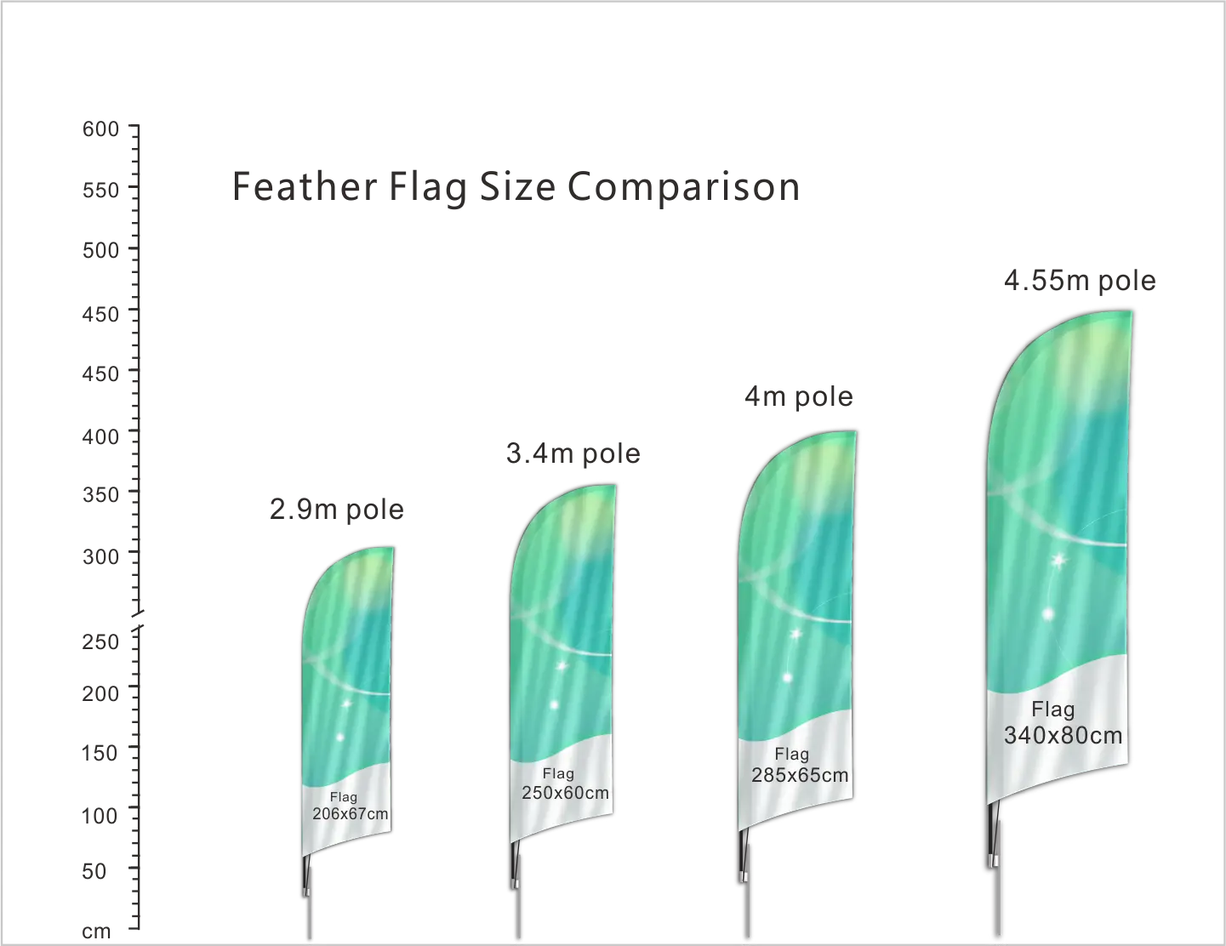
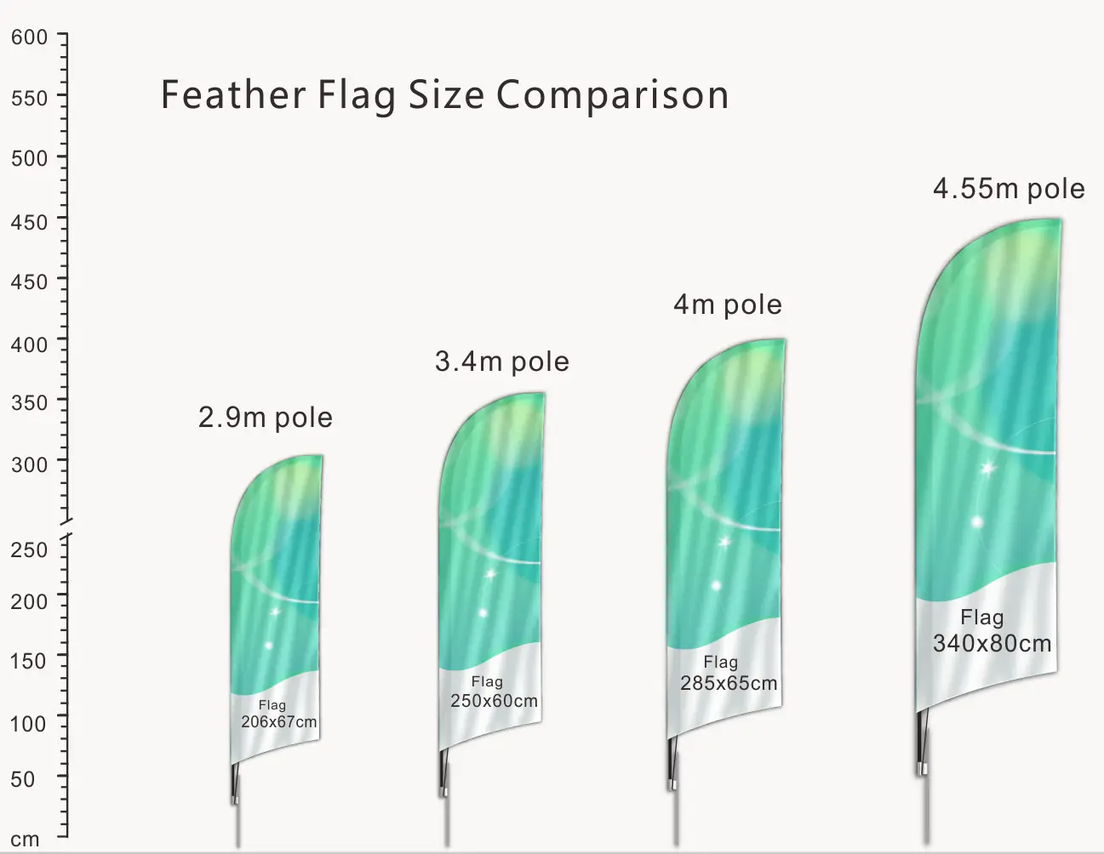
fix(feather-flag): 补充模块留白底色跟随模块背景
- 新增「图片区域底色」imageBg（默认 #faf7f5，可改白/其他色）
- contain 时图片元素透明、容器承担底色，留白不再固定白色
- 同步线上后台更新后的尺寸图
- 同步 README / AI-GUIDE §10.44 / 精简版；后台管理操作说明书仅本地更新（不入 git）

diff --git a/static/feather-flag.html b/static/feather-flag.html
@@ -205,7 +205,7 @@ Portable &amp; Easy Setup: Lightweight, fast to assemble, and simple to transpor
     <section class="section section-supp">
       <div class="container">
         <div class="f-supp f-supp-textLeft">
-          <div class="f-supp-img is-contain"><img src="/assets/media/wolflag-blade-feather-flag-size-chart-2.9m-to-4.55m-pole.webp" alt="Wolflag blade feather flag size comparison chart showing 2.9m pole (206x67cm flag), 3.4m pole (250x60cm flag), 4m pole (285x65cm flag), and 4.55m pole (340x80cm flag)" decoding="async"></div>
+          <div class="f-supp-img is-contain" style="background:#faf7f5"><img src="/assets/media/wolflag-blade-feather-flag-size-chart-2.9m-to-4.55m-pole.webp" alt="Wolflag blade feather flag size comparison chart showing 2.9m pole (206x67cm flag), 3.4m pole (250x60cm flag), 4m pole (285x65cm flag), and 4.55m pole (340x80cm flag)" decoding="async"></div>
           <div class="f-supp-body">
             <h2 class="f-supp-title">Custom Feather Flag Sizes and Pole Set Options</h2>
             <div class="f-supp-text"><p>Our standard blade feather flags are available in four popular size configurations, each paired with a precision-matched fiberglass and aluminum pole set:</p><p><strong>Small (S) – 206 × 67 cm Flag | 2.9m (9.5 ft) Pole</strong>: Ideal for indoor trade shows, lobbies, and compact storefronts.</p><p><strong>Medium (M) – 250 × 60 cm Flag | 3.4m (11 ft) Pole</strong>: Great for sidewalks, retail entrances, and pedestrian zones.</p><p><strong>Large (L) – 285 × 65 cm Flag | 4.0m (13 ft) Pole</strong>: Our most popular all-around size for outdoor events, car dealerships, and roadside promotions.</p><p><strong>Extra Large (XL) – 340 × 80 cm Flag | 4.55m (15 ft) Pole</strong>: Engineered for maximum long-range visibility along highways and large open venues.</p><p>Choosing the right size depends on your ceiling height, viewing distance, and outdoor wind conditions. Need a bespoke dimension or special shape? Contact our team for custom-tailored flag and pole solutions.</p></div>

diff --git a/src/assets/css/site.css b/src/assets/css/site.css
@@ -876,8 +876,11 @@ ul { list-style: none; }
 .f-supp-img { flex: 0 0 44%; align-self: stretch; min-height: 220px; }
 .f-supp-img img { width: 100%; height: 100%; object-fit: cover; border-radius: 10px; display: block; }
 /* 2026-10-17：补充模块「图片显示方式 = 完整显示（contain）」。
-   用于尺寸表/长图：图片在左右两栏布局里不再被 cover 裁掉，两侧或上下留白（白底与图片底色一致）。 */
-.f-supp-img.is-contain img { object-fit: contain; background: #fff; }
+   用于尺寸表/长图：图片在左右两栏布局里不再被 cover 裁掉，两侧或上下留白。
+   ⚠ 图片元素本身不要写死白底，否则留白会和模块底色不一致；底色由容器负责
+   （后台「图片区域底色」字段，默认 #faf7f5 = 模块底色；可改 #ffffff 或其他颜色）。 */
+.f-supp-img.is-contain { background: #faf7f5; }
+.f-supp-img.is-contain img { object-fit: contain; background: transparent; }
 .f-supp-body { flex: 1; }
 .f-supp-title { font-size: 26px; font-weight: 700; color: #191a19; margin-bottom: 14px; }
 .f-supp-text { color: #444c58; font-size: 16px; line-height: 1.7; }

diff --git a/static/assets/css/site.css b/static/assets/css/site.css
@@ -876,8 +876,11 @@ ul { list-style: none; }
 .f-supp-img { flex: 0 0 44%; align-self: stretch; min-height: 220px; }
 .f-supp-img img { width: 100%; height: 100%; object-fit: cover; border-radius: 10px; display: block; }
 /* 2026-10-17：补充模块「图片显示方式 = 完整显示（contain）」。
-   用于尺寸表/长图：图片在左右两栏布局里不再被 cover 裁掉，两侧或上下留白（白底与图片底色一致）。 */
-.f-supp-img.is-contain img { object-fit: contain; background: #fff; }
+   用于尺寸表/长图：图片在左右两栏布局里不再被 cover 裁掉，两侧或上下留白。
+   ⚠ 图片元素本身不要写死白底，否则留白会和模块底色不一致；底色由容器负责
+   （后台「图片区域底色」字段，默认 #faf7f5 = 模块底色；可改 #ffffff 或其他颜色）。 */
+.f-supp-img.is-contain { background: #faf7f5; }
+.f-supp-img.is-contain img { object-fit: contain; background: transparent; }
 .f-supp-body { flex: 1; }
 .f-supp-title { font-size: 26px; font-weight: 700; color: #191a19; margin-bottom: 14px; }
 .f-supp-text { color: #444c58; font-size: 16px; line-height: 1.7; }

diff --git a/AI-GUIDE.md b/AI-GUIDE.md
@@ -4264,12 +4264,14 @@ Graduations `#EDF0FD` · Expos `#EAF7F0` · Fundraisers `#FDEEE6` · Seasonal `#
 **根因**：该补充模块 `direction:"textLeft"`（文字左、图片右）。`.f-supp` 是 flex row；`.f-supp-img{flex:0 0 44%;align-self:stretch;min-height:220px}` 被文字高度拉高；`img{width:100%;height:100%;object-fit:cover}` → 图片按容器比例裁剪，尺寸图比容器更宽，右边被裁。
 
 **修复**：
-- 5 个页面的 supplement 字段都加 `imageFit` 下拉：`cover`（默认，填满、可能裁剪）/ `contain`（完整显示、可能留白）。
-- build：`<div class="f-supp-img${s.imageFit === 'contain' ? ' is-contain' : ''}">`。
-- CSS：`.f-supp-img.is-contain img{object-fit:contain;background:#fff}`（白底与尺寸图底色一致；左右/上下留白）。
-- 数据：把该条设为 `imageFit:"contain"`；旧数据缺省 = cover，其他图片不变。
+- 5 个页面的 supplement 字段都加 `imageFit` 下拉：`cover`（默认，填满、可能裁剪）/ `contain`（完整显示、可能留白）；同时加 `imageBg`（图片区域底色，默认 `#faf7f5`）。
+- build：`<div class="f-supp-img is-contain" style="background:imageBg">`；图片元素 `object-fit:contain;background:transparent`。
+- CSS：`.f-supp-img.is-contain{background:#faf7f5}`（行内 `imageBg` 覆盖）+ `.f-supp-img.is-contain img{object-fit:contain;background:transparent}`。
+- 数据：把该条设为 `imageFit:"contain"`、`imageBg:"#faf7f5"`；旧数据缺省 = cover，其他图片不变。
 
-**验证**：local `getComputedStyle(img).objectFit === 'contain'`；natural 1441×1112，容器约 494×501 → contain 后完整显示，右侧 4.55m 列可见；其他补充图片仍 cover；0 横向溢出；后台 5 个 imageFit 字段，PyYAML 通过。
+**同日追加（用户反馈“留白是白色”）**：contain 后图片元素自身白底导致上下留白与模块底色不一致。改为**容器承担底色**：`imageBg` 默认 `#faf7f5`（= 模块底色），可改 `#ffffff` 或其他颜色；图片元素背景透明，留白自动填充所选颜色。实测容器 `rgb(250,247,245)`，与模块底色一致；后台 5 个 imageBg 字段。⚠ 如果图片**自身**自带白底（不是透明），图片内部白底仍会保留，只改“图片以外的留白”；需要连图片白底也统一，得另做抠图/透明化。
+
+**验证**：local `getComputedStyle(img).objectFit === 'contain'`；natural 1441×1112，容器约 494×501 → contain 后完整显示，右侧 4.55m 列可见；留白底色 `rgb(250,247,245)`；其他补充图片仍 cover；0 横向溢出；后台 5 个 imageFit + 5 个 imageBg 字段，PyYAML 通过。
 
 **说明**：这是「左右两栏」布局的裁剪；如果以后想让它更大，可把 `direction` 改 `textTop`/`textBottom`（图通栏），但本次未改用户选择的排版。
 
@@ -4282,7 +4284,7 @@ Graduations `#EDF0FD` · Expos `#EAF7F0` · Fundraisers `#FDEEE6` · Seasonal `#
 
 **同日再次升级（2026-10-17）：补充模块从 top/bottom 升级为「多插槽 + 注册表 + 构建时生成后台下拉」（§10.43.1、坑 #40 更新）**——用户要求「所有可以插入的地方都列出来，能加在 Choose Your Flag Size 上面」。新增 `scripts/page-slots.mjs` 的 `PAGE_SLOTS`（**19 个槽：国旗 5 / 羽毛旗 4 / 横幅 3 / 展架 3 / 首页 4**）；`supplement[].slot` + `defaultSlot` 迁移（国旗 after-hero、羽毛旗 after-applications）；`slotGroup()` 输出 `.supp-slot-group`（CSS 变量 `--supp-top/--supp-bottom`，多条之间 56、最后一条按变量 0/56）；后台源 config 只留 `# @@SLOT_FIELD:key@@`，构建时生成 `static/admin/config.yml` 的 `slot` select（以后新增槽 = 注册表 + `slotGroup()`，后台自动多选项）。**事实边界**：不是运行时 DOM 自动扫描，新增段落仍需登记一次。验证：国旗 after-products/after-options/after-benefits 上下 56；羽毛旗 after-products/after-benefits；首页 after-announce 46+10=56；横幅 after-hero 26+30=56；现有内容位置不变；admin 5 个 slot 字段（5/4/3/3/4 选项）PyYAML 通过；临时测试已删。
 
-**同日补充（2026-10-17）：补充模块新增「图片显示方式」cover/contain（§10.44、坑 #41）**——用户上传 1441×1112 的 blade feather flag 尺寸表，页面「没有完全显示」，右侧 4.55m 列被裁；根因是 `textLeft` 布局的 `.f-supp-img` 被文字高度拉高 + `object-fit:cover`；新增 `imageFit`（5 页 supplement 字段，cover 默认 / contain），build 加 `.is-contain`，CSS `object-fit:contain;background:#fff`；该条设为 contain；其他图片不变；验证完整显示、0 溢出、admin 5 个字段。
+**同日补充（2026-10-17）：补充模块新增「图片显示方式」cover/contain（§10.44、坑 #41）**——用户上传 1441×1112 的 blade feather flag 尺寸表，页面「没有完全显示」，右侧 4.55m 列被裁；根因是 `textLeft` 布局的 `.f-supp-img` 被文字高度拉高 + `object-fit:cover`；新增 `imageFit`（5 页 supplement 字段，cover 默认 / contain）+ `imageBg`（图片区域底色，默认 `#faf7f5`，可改白/其他色），build 加 `.is-contain`，CSS `object-fit:contain;background:transparent` + 容器 `imageBg`；该条设为 contain + `#faf7f5`；其他图片不变；验证完整显示、留白与模块底色一致、0 溢出、admin 5 个 imageFit + 5 个 imageBg 字段。
 
 **前次（2026-10-16）**：**羽毛旗页两轮迭代**：① 补充模块「间距减半 + 条目左对齐 + 文字不贴边」；② 新增「应用场景」卡片网格模块（照同行参考站 vividads.com.au 的 htm 源码实测值复刻）+ 图标与配色定稿**（新增 §10.41）。用户先给一张**标注截图**（画了 4 处红框红箭头，文件名叫 `调整.jpg` 却放在 `Car flag\` 文件夹里 —— **判据：以截图里的内容为准，别被文件名带偏**，内容是羽毛旗页），后给一份**单文件另存的参考页**（`沙滩旗应用场景.htm`，2.3MB）要求「把这个新模块完全复制下来放到 feather flags 页面」「排版三个框一排，三排，总计9个框」「新增一个款是 real estate」「内容你帮我写一下」「**那些链接都不要，我只需要在网站上展示我们的旗帜可以用在那些地方**」。🔴 **动手前 `git fetch` 发现本地落后线上 5 个提交**，**线上那片 "One Hardware System" 补充模块本地压根没有**（用户自己在后台加的）→ 按 §0.1 开场必问、**经用户批准后**才同步；本地那张安装图有未提交改动，**实测 md5 与线上完全相同**后才丢弃本地改动合并，**零丢失**；第二轮做完时线上**又多了 2 个提交**（空 `image` 字段 + 重传安装图），用 `stash push → merge --ff-only → stash pop` 干净合并。**第一轮（三处修正）**：① 两个空档 **112px → 56px** —— 根因是每个补充模块各自包在 `.section`（上下各 56px 内边距）里、相邻即 56+56；修法是 `build.mjs` 给 section 加 `section-supp` 类 + CSS `.section-supp{padding-top:0;padding-bottom:56px}`（⚠ **不要设成"上下各 28px"，那样上方空档=84px 只减 1/4**）；② 5 条 ● 开头不对齐 —— 根因是纯文字补充模块 `text-align:center` 而用户在正文里**手打了 5 个「● 」**，修法 `.f-supp-txt .f-supp-text{text-align:left}`（**标题保持居中不变**，实测 5 个横坐标全 = 159）；出过「整块左对齐 / 标题居中+条目左对齐 / 正文限宽居中」三版截图给用户挑，**用户选中间那版**；③ 标题正文贴盒子边 —— 根因是 **2026-10-15 为放大安装图把上下排布的内边距归零**（图通栏了、文字也跟着贴到 0px），修法**只给 `.f-supp-body` 补回 40px（手机 24px）**，`.f-supp-img` 与 `.f-supp-body` 是兄弟节点 → **图片宽度 1202/342 一点没变、用户"把图放大"的成果保住**（左右两栏排布不动）。**第二轮（新模块）**：`applications` = `{show,title,subtitle,items[{image,icon,title,text,bg}]}` 进 `feather-flags.json`，`build.mjs` 新增 `applicationsSection()` **只接 `featherBody()`**（插在产品区与补充模块之间），`config.yml` 顶层加字段（**files 型缩进 10**，坑 #16），CSS 新增 `.wl-app-*` 并让 `.section-apps` 与 `.section-supp` **共用同一套留白** → 全页「产品卡→应用场景→补充模块→补充模块」**一律 56px**；参考站规格照 htm 源码实测复刻（卡片圆角 14px / 内边距 16×14 / min-height 168px / 间距 14px、图标块 40×40 白底圆角 10px、标题 17px/800、说明 13.5px、悬停 `0 6px 18px rgba(0,0,0,.10)` + `translateY(-1px)`），**四处有意不同（用户拍板）**：一排 **3 个**（参考站 4 个）/ **卡片里的链接全部去掉**（参考站有标题链接+标签链接+Explore all events 三处，实测模块内 `<a>` 数 **0**）/ **9 张卡**（新增 Real Estate 放第一格）/ 文字色改用本站 `#191a19`+`#444c58`。**图标选型**：做**候选对比图**（用真实卡片底色+真实 40×40 图标位渲染）给用户挑，用户点名 4 格 → 我出推荐表+理由、**用户回「就按你推荐的」**：Weddings 💍→**👰**、Expos 🏛→**🎪**、Fundraisers 🏃→**💰**、Awareness **🎗 保持**（⚠ 用户原本想要 🏆 奖杯，我**如实指出奖杯在大众印象里是"比赛得奖"不是"公益宣传"**，用户采纳保留丝带）；Real Estate 起初用用户给的 `logo.png`（米白圆底+红灰楼房，把接近 `(250,247,245)` 的底改成纯白压平存 `media/real-estate-icon.png`），**随后用户改口「你这个 🏠 比我的好，还是用你的」** → 改 emoji 🏠、**该图已删**（未跟踪、零引用、删前 grep 确认）。**配色**：用户给 9 个新色号（`#EBF3FC`/`#FCEEF2`/`#FEF4DC`/`#F4EEFC`/`#EDF0FD`/`#EAF7F0`/`#FDEEE6`/`#E8F6FA`/`#F9EFF6`），⚠ **Fundraisers 那格其实没变**（用户给的 `#FDEEE6` 与原来的 `#fdeee6` 是同一个颜色，只是大小写不同 → **实际变的是 8 个**，已如实告知）；存库统一小写。**验证**：**164 个产物文件逐字节比对只动 4 个、无多出少掉**；羽毛旗页 HTML 只多新模块、国旗页只改 **1 行**；全站 15 页 × 5~13 种宽度 **0 溢出 / 0 报错 / 0 真 404**（内部链接 15 条全 200）；**9 张卡的实际渲染色 vs 用户指定色号 9/9 完全一致**（读 `getComputedStyle` 转 hex，电脑+手机两端）；文字对比度 **7.6~7.9:1**（标准 4.5:1）；字号放大 1.5×/2× 模块内部 0 溢出；**用本地 decap-server 真后台实点展开一张卡**，5 个字段全部可编辑、0 报错（**不点 Publish**）。⚠ **本次两处测试自身的假象**：屏蔽 Google Fonts + 快速连续 goto → 报告里出现 `fonts.googleapis.com` 与 `localhost/...webp` 的 `ERR_FAILED`，**逐个 curl 复核全是 200，不是真问题**；另有两次探针选择器写错（`.wl-app` 实为 `.section-apps`、Decap 列表标题取错元素）造成的假警报。**明确没做**：卡片几何值/一排几个没做成后台字段、模块只接羽毛旗页、`sitemap.xml` 的 lastmod「每次构建都写成当天」是**改动前就有的老做法**（已报备、未动）。
 

diff --git a/AI-GUIDE-精简版.md b/AI-GUIDE-精简版.md
@@ -264,7 +264,7 @@ wolflag-site/
 
 - **补充模块 `supplement[]`**：每页底部可加多个图文区，每项 `{show, position, title, text, image}`；`show:false` = 隐藏但内容保留。
 - **补充模块的 `slot`（显示位置，2026-10-17 多插槽）**：每页插槽清单在 `scripts/page-slots.mjs` 的 `PAGE_SLOTS`；每条 `s.slot` 是插槽 id；**缺省 / 旧数据落到本页 `defaultSlot`（= 改动前位置）**。后台下拉由构建时从注册表自动生成（`admin/config.yml` 里只保留 `# @@SLOT_FIELD:key@@` 标记，构建写入 `static/admin/config.yml`）。国旗页 5 个槽：after-hero / after-products / after-options / after-size / after-benefits；羽毛旗 4 个；横幅/展架 3 个；首页 4 个。⚠ 缺省槽必须是旧位置（坑 #40）；`slotGroup()` 按注册表的 top/bottom 输出 `.supp-slot-group`。`[§10.43]`
-- **补充模块的 `imageFit`（图片显示方式，2026-10-17 新增）**：`cover`（默认，填满、可能裁剪）/ `contain`（完整显示、可能留白）。构建给 `.f-supp-img` 加 `.is-contain`，CSS `object-fit:contain;background:#fff`。尺寸表/长图用 contain；旧数据缺省 = cover，现有图片不变。`[§10.44]`
+- **补充模块的 `imageFit` / `imageBg`（图片显示方式 / 图片区域底色，2026-10-17 新增）**：`imageFit` = `cover`（默认，填满、可能裁剪）/ `contain`（完整显示、可能留白）；`imageBg` = 留白底色（默认 `#faf7f5` = 模块底色，可改 `#ffffff` 或其他颜色）。构建给 `.f-supp-img` 加 `.is-contain` + 行内 `background:imageBg`，CSS `object-fit:contain;background:transparent`。尺寸表/长图用 contain；旧数据缺省 = cover，现有图片不变。`[§10.44]`
 - 🔴 **补充模块的「文字」`text` 走 `faqAnswer()`，支持空行分段 / 单回车换行**（**2026-10-15 修**）：
   改前用的是 `bold()`，而 `.f-supp-text` **没有** `white-space:pre-line` → 后台打的空行被浏览器折成空格、
   整块糊成一整段（**而本文件 §3.1 一直写着它支持换行 → 属文档写了、代码没实现**，见坑 #37）。
@@ -369,7 +369,7 @@ wolflag-site/
 | **尺寸模块的留白** `[§10.42]` | 上方「生产选项」`.wl-opt` 自带 56px；本模块 `padding:0 0 26px`（手机 44px）+ 表格卡片自身 30px（手机 12px）= **到优势条灰底 56px**。⚠ 不要再加 `padding-top`，否则 112px |
 | **国旗页三处间距减半** `[§10.42]` | 国旗顶部插槽 `after-hero` 的 `--supp-top:2px`（page-hero 底 26 + 2 = **28px**）；`.section.nf-products{padding-top:28px;padding-bottom:0}`（灰块 → 产品卡 **28px**；产品卡 → 生产选项 **112→56px**，手机 80→40px）。⚠ 用户标注「间隙减半」共三处，别改回 56 / 112 |
 | **补充模块「多插槽」** `[§10.43]` | `.supp-slot-group{padding-top:var(--supp-top,0)}`；组内 `.section-supp` 上 0 / 下 56，最后一条 `padding-bottom:var(--supp-bottom,0)`；每个槽的 top/bottom 在 `PAGE_SLOTS` 里；首页 `.main-products.has-supp-top{padding-top:56px}`。⚠ 缺 `s.slot` 落 `defaultSlot`（旧位置，坑 #40） |
-| **补充模块图片显示方式** `[§10.44]` | 默认 `.f-supp-img img{object-fit:cover}`（填满、可能裁剪）；`imageFit=contain` → `.f-supp-img.is-contain img{object-fit:contain;background:#fff}`（完整显示、可能留白）。尺寸表/长图用 contain，普通照片用 cover |
+| **补充模块图片显示方式 / 底色** `[§10.44]` | 默认 `.f-supp-img img{object-fit:cover}`（填满、可能裁剪）；`imageFit=contain` → `.f-supp-img.is-contain img{object-fit:contain;background:transparent}` + 容器行内 `background:imageBg`（默认 `#faf7f5`，可改白色/其他色）。尺寸表/长图用 contain，普通照片用 cover |
 
 📌 **「颜色减淡一半」的算法**：`round(fg*a + bg*(1-a))`，`a=0.5`。**必须先实测它背后的真实底色**再算。
 
@@ -486,7 +486,7 @@ wolflag-site/
 | — | 🖼 **"图片没写 alt"要先分类，**绝不能全填** | **装饰性小图标**（公告条/服务卡/页脚社交/优势条）**按无障碍规范就该保持 `alt=""`**，填了对读屏用户反而是噪音 —— 而且**必须主动告诉用户"这是留空、不是没干完"**。只有**真实内容图**（产品图/横幅/工厂图/场景图）才逐张看图后起草，列表给用户批准再填；**只填当前为空的，已有的一个字不动**。📌 扫描时键名要同时覆盖 `image` 与 `bannerImage` [§10.37] |
 | — | ⭐ **"证明只改了一个字段"的校验：改前与改后**两边都要**归一化，不能只归一化一边** | 连踩两版：① 只 `strip(改后)` 去比没处理的改前 → 连带抹掉文件里**本来就有**的 alt → 假警；② 回滚若用"删键"而非"恢复原值"，遇到 `"imageAlt": ""`（空串、键存在）又假警。✅ 正确：`strip_alts(改前) == strip_alts(改后)` [§10.37] |
 | — | 📋 **给非程序员做审阅材料：让他"能在上面写字 + 一键复制"** | 实况：`scripts/_alt_report.py` 生成的「改前 vs 改后」对比 HTML（图片预览 + 可编辑意见栏 + 一键复制意见），比"表格截图"有用得多 [§10.37] |
-| 41 | 🖼 **补充模块「文字左/右」布局的图片默认 `object-fit:cover`，会被裁剪** | 实况：用户上传 1441×1112 的 blade feather flag 尺寸表，图片区被文字高度拉高，cover 把右边 4.55m 那列裁掉；新增 `imageFit:contain`（后台「图片显示方式」）解决。判据：**尺寸表/长图/带文字图 → contain；普通照片想铺满 → cover**；旧数据缺省 = cover，现有图片不变 `[§10.44]` |
+| 41 | 🖼 **补充模块「文字左/右」布局的图片默认 `object-fit:cover`，会被裁剪；contain 后留白又会是白色** | 实况：用户上传 1441×1112 的 blade feather flag 尺寸表，cover 把右边 4.55m 那列裁掉；改成 contain 后上下留白默认白底、与模块底色不一致。最终加 `imageFit`（cover/contain）+ `imageBg`（默认 `#faf7f5`，可改白/其他色），容器承担底色、图片元素透明。判据：**尺寸表/长图 → contain；普通照片想铺满 → cover；留白颜色交给 imageBg**；旧数据缺省 = cover `[§10.44]` |
 
 ### 6.5 内容 / 与用户协作
 
@@ -700,7 +700,7 @@ wolflag-site/
 ---
 
 *本精炼版生成于 2026-09-19，由 `AI-GUIDE.md`（完整版）提炼。*
-*最后更新 2026-10-17：国旗页新增「Choose Your Flag Size」尺寸选择模块 —— 参考 bestflag.com 实测复刻表格（只保留 Small / Standard、6 行、无 Guidon）、左侧两张尺寸图轮播并与表头双向联动（点表头切图并停轮播、不点时高亮跟随）、选中列改用 FAQ 浅红/深红；模块最终在「生产选项」之后；标语→灰块、灰块→产品卡两处 56→28px，产品卡→生产选项 112→56px；新增坑 #39（复用组件同权重覆盖失效）与协作教训（先确认要挪哪个模块）；**同日追加：全站 5 页补充模块升级为「多插槽」**（19 个位置，`scripts/page-slots.mjs` 注册表 + 构建时自动生成后台下拉；缺省槽 = 旧位置；坑 #40）；**同日补充：补充模块新增「图片显示方式」`imageFit`（cover / contain，尺寸表、长图用 contain）**（坑 #41）。§2.3 / §2.5 / §4 / §6.1 / §6.3 / §6.4 / §10。*
+*最后更新 2026-10-17：国旗页新增「Choose Your Flag Size」尺寸选择模块 —— 参考 bestflag.com 实测复刻表格（只保留 Small / Standard、6 行、无 Guidon）、左侧两张尺寸图轮播并与表头双向联动（点表头切图并停轮播、不点时高亮跟随）、选中列改用 FAQ 浅红/深红；模块最终在「生产选项」之后；标语→灰块、灰块→产品卡两处 56→28px，产品卡→生产选项 112→56px；新增坑 #39（复用组件同权重覆盖失效）与协作教训（先确认要挪哪个模块）；**同日追加：全站 5 页补充模块升级为「多插槽」**（19 个位置，`scripts/page-slots.mjs` 注册表 + 构建时自动生成后台下拉；缺省槽 = 旧位置；坑 #40）；**同日补充：补充模块新增「图片显示方式」`imageFit`（cover / contain）+「图片区域底色」`imageBg`（默认 #faf7f5，可改白/其他色）**（坑 #41）。§2.3 / §2.5 / §4 / §6.1 / §6.3 / §6.4 / §10。*
 *前次 2026-10-16：羽毛旗页两轮迭代 —— ① 补充模块「上下留白 112→56px + 纯文字模块条目左对齐 + 上下排布时文字不贴盒子边」（§2.5 / §4，其中「留白各减半 ≠ 间距减半」记入 §6.3）；② 新增「应用场景」卡片网格模块 `applications`（照同行参考站 vividads.com.au 源码实测值复刻，一排 3 个 × 3 排 = 9 张卡、**卡片内无任何链接**、可后台编辑，§2.3 / §4）。详见完整版 §10.41。*
 *前次 2026-10-15：国旗页新增「生产选项」卡片网格模块（`optionBlocks`，§2.3）+ 补充模块文字支持空行分段（§2.5 / §3.1）+ 新增坑 #37（"文档写了 ≠ 真支持"，碰字段前先验产物）与 #38（A/B 基线 worktree、证明纯新增、字号放大测试的正确写法，§6.7）。*
 *完整版一字未删，**遇到任何需要细节、来历、证据的情况，请去查 `AI-GUIDE.md` 的对应章节**。*

diff --git a/README.md b/README.md
@@ -444,6 +444,9 @@ Why Source from Wolflag?
 以后遇到类似的尺寸图/长图，在后台把「图片显示方式」改成「完整显示」即可；
 其他照片保持默认「填满区域」，**不会变样**。
 
+- 后台还多了「**图片区域底色**」：默认 `#faf7f5`（和补充模块底色一致），**留白自动填这个颜色**；
+  想用白色选 `#ffffff`，也可以选其他颜色。只对「完整显示」时图片上下/左右的留白生效。
+
 ---
 
 ## 🧭 羽毛旗页：留白收窄 + 新增「我们的旗帜用在哪里」9 格卡片模块（2026-10-16）
